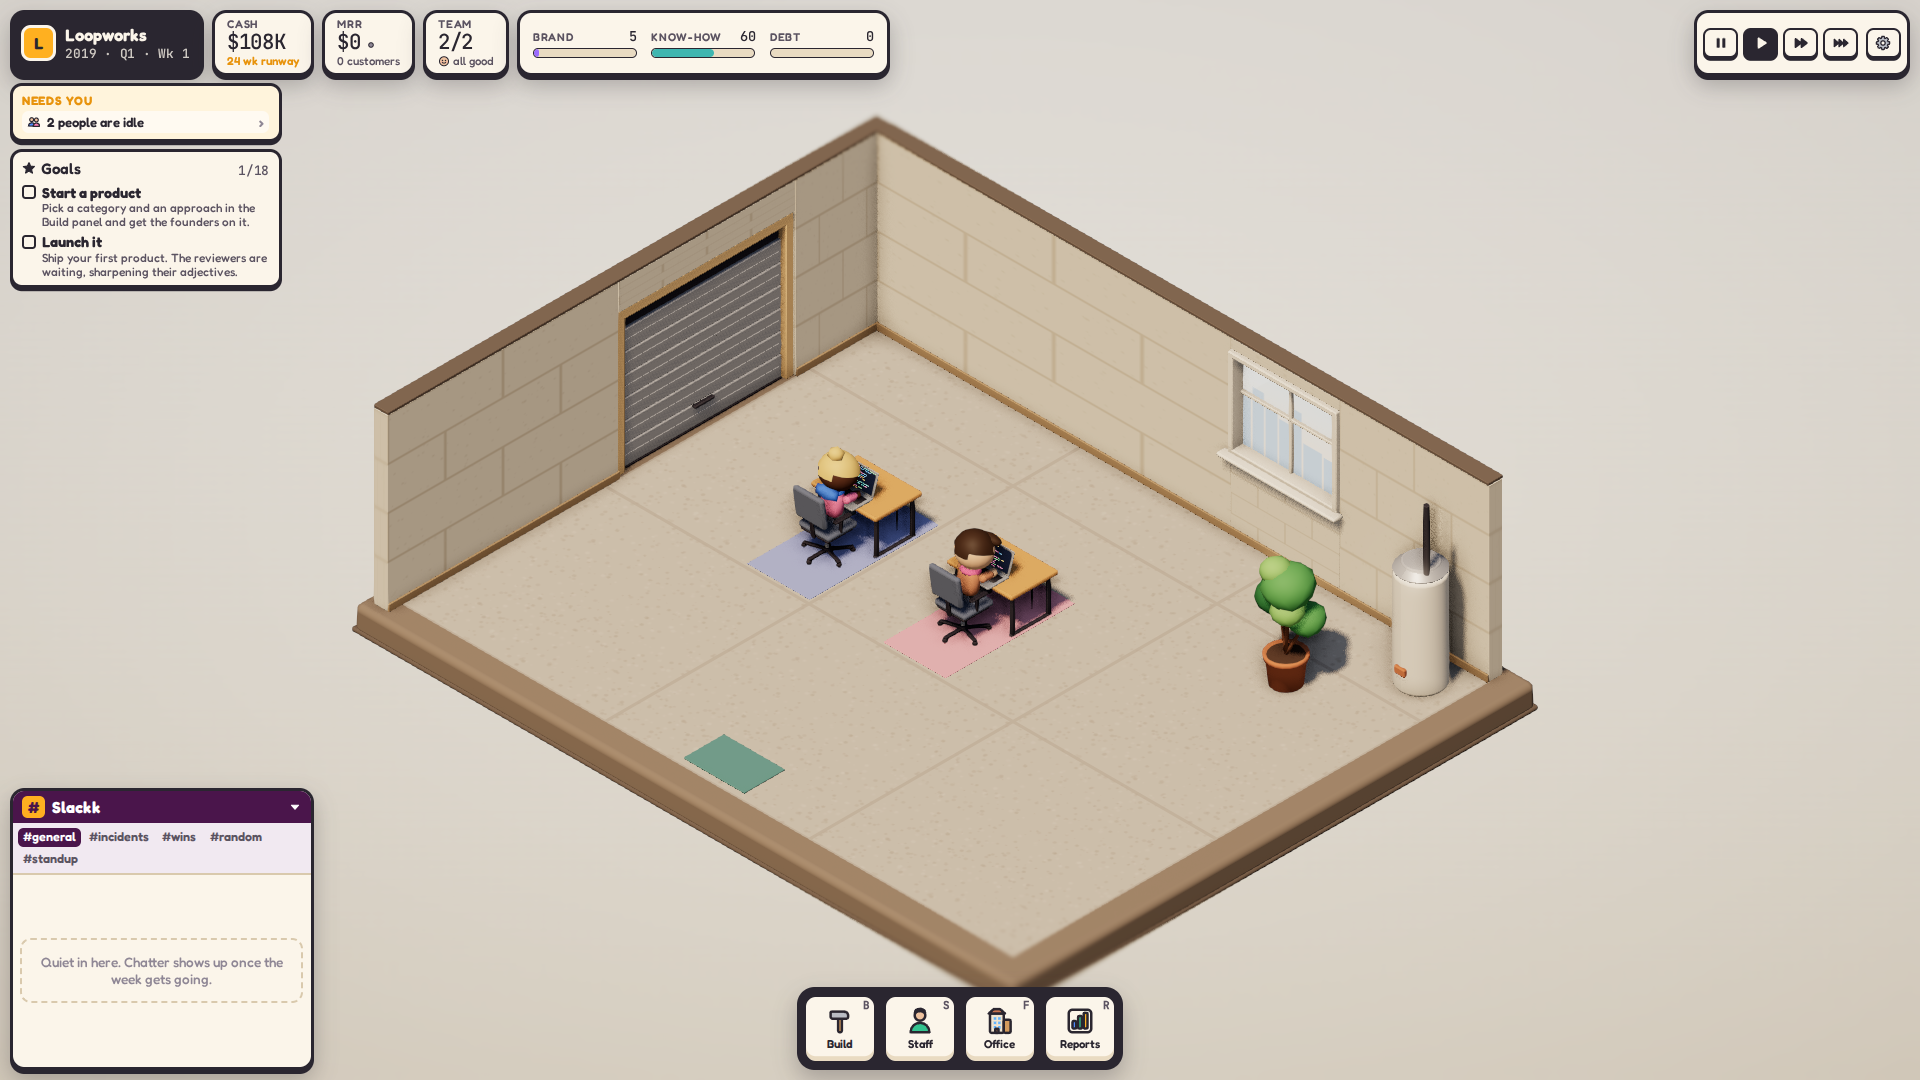
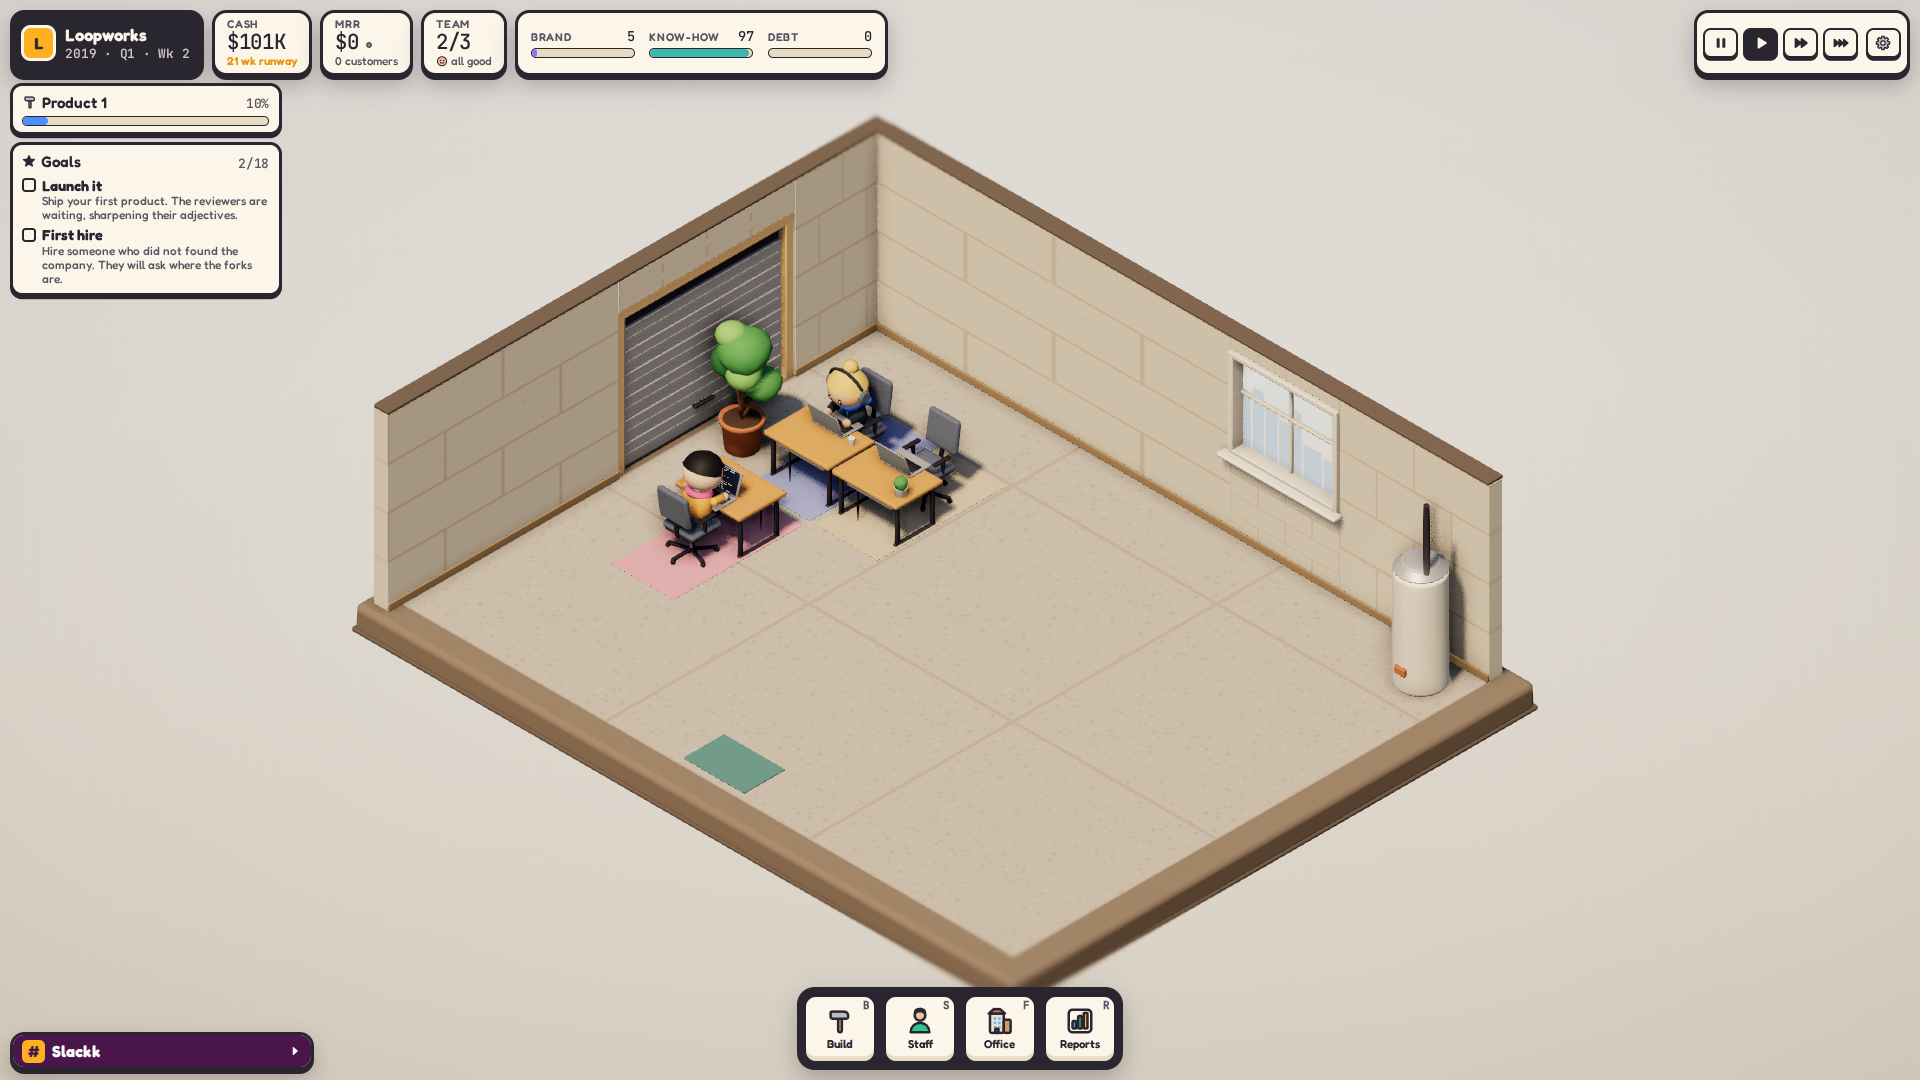
feat(capture): README shots from real seeded games, with Slackk history

diff --git a/scripts/capture-manifest.js b/scripts/capture-manifest.js
@@ -70,6 +70,9 @@ const THREE_SAVES = `(async () => {
 // Everyone in the office: no lockdown, and an office work policy (the sim keeps nobody remote).
 const IN_OFFICE = 's.lockdown = null; s.workPolicy = "office"; for (const p of s.staff) { p.remote = false; p.call = null; }';
 
+// Presents the recent Slackk history the sim kept, since a fast-forward shows nothing as it goes.
+const CHAT_HISTORY = 'window.__HITL.emit((s.chatLog ?? []).slice(-15));';
+
 const ERA = (id) => `(() => { const s = window.__HITL.state; s.era = { id: '${id}', since: s.week }; })()`;
 
 export const ITEMS = [
@@ -246,33 +249,26 @@ export const ITEMS = [
     screenshots: [5],
   },
 
-  // README (group 'readme'): hero stills at 1920x1080 with the UI, and one short loop.
+  // README (group 'readme'): hero stills at 1920x1080 with the UI, from real seeded games so every
+  // shot is internally consistent (date, era, effects, goals), plus one short loop.
   {
-    id: 'readme-garage', group: 'readme', title: 'The garage opening: founders and the first desks', query: 'seed=21&speed=1', still: true,
-    setup: `(() => { const H = window.__HITL; H.dispatch({ type: 'placeItem', itemId: 'desk', x: 2, y: 2, rot: 0 }); H.dispatch({ type: 'placeItem', itemId: 'desk', x: 4, y: 2, rot: 0 }); H.dispatch({ type: 'placeItem', itemId: 'plant', x: 7, y: 1, rot: 0 }); })()`,
-    warmup: 4, screenshots: [3],
+    id: 'readme-garage', group: 'readme', title: 'The garage opening: founders and the first desks', query: 'seed=1&speed=1', still: true,
+    setup: PLAY({ weeks: 1 }), warmup: 3,
+    // Nothing has been said in Slackk yet this early, so the panel is folded away.
+    actions: [...DISMISS_AT([0.1, 0.5]), { at: 0.3, js: KEY('c', 'KeyC') }], screenshots: [3],
   },
   {
-    id: 'readme-hq', group: 'readme', title: 'A busy Agents-era HQ with pets and perks', query: 'mock=hq&speed=1&time=day', still: true,
-    setup: `(() => { ${ERA('agents')}; const s = window.__HITL.state; s.pets = [{ id: 'pet1', species: 'dog', name: 'Biscuit', ownerId: s.staff[0].id, arrivedWeek: s.week }, { id: 'pet2', species: 'cat', name: 'Mochi', ownerId: s.staff[4].id, arrivedWeek: s.week }]; })()`,
-    warmup: 6, screenshots: [4],
+    id: 'readme-hq', group: 'readme', title: 'A busy Agents-era HQ with pets and perks', query: 'seed=1&speed=1&time=day', still: true,
+    setup: PLAY({ weeks: 500, until: "s.office.stage === 2 && s.era.id === 'agents'", after: IN_OFFICE + CHAT_HISTORY }), warmup: 6,
+    actions: DISMISS_EVERY(5), screenshots: [5],
   },
   {
-    id: 'readme-waffle', group: 'readme', title: 'The Waffle Party', query: 'mock=floor&speed=1', still: true, warmup: 1.5,
-    actions: [
-      { at: 0.5, js: `window.__HITL.emit([{ type: 'incentive', staffId: ${PICK}.id, reward: 'waffle_party' }])` },
-      { at: 3.0, js: CLICK('Onward') },
-    ],
-    screenshots: [10],
+    id: 'readme-lockdown', group: 'readme', title: 'Lockdown: the video call over the empty office', query: 'seed=1&speed=1', still: true,
+    setup: PLAY({ weeks: 200, until: 's.lockdown', after: CHAT_HISTORY }), warmup: 3,
+    actions: DISMISS_EVERY(6), screenshots: [6],
   },
   {
-    id: 'readme-lockdown', group: 'readme', title: 'Lockdown: the video call over the empty office', query: 'mock=floor&speed=1', still: true,
-    setup: `(() => { const s = window.__HITL.state; const stayer = s.staff[0]; s.lockdown = { since: s.week, until: s.week + 20, stayerId: stayer.id }; for (const p of s.staff) { p.remote = p.id !== stayer.id; p.call = p.remote ? { muted: Math.random() < 0.3, frozen: Math.random() < 0.15, badCamera: Math.random() < 0.2 } : null; } })()`,
-    warmup: 3, screenshots: [6],
-  },
-  {
-    id: 'readme-loop', group: 'readme', title: 'The office in motion (loop)', query: 'mock=hq&speed=1&time=day', seconds: 7, warmup: 4,
-    setup: `(() => { ${ERA('agents')}; const s = window.__HITL.state; s.pets = [{ id: 'pet1', species: 'dog', name: 'Biscuit', ownerId: s.staff[0].id, arrivedWeek: s.week }]; })()`,
-    hideUi: true,
+    id: 'readme-loop', group: 'readme', title: 'The office in motion (loop)', query: 'seed=1&speed=1&time=day', seconds: 7, warmup: 6, hideUi: true,
+    setup: PLAY({ weeks: 500, until: "s.office.stage === 2 && s.era.id === 'agents'", after: IN_OFFICE }),
   },
 ];
